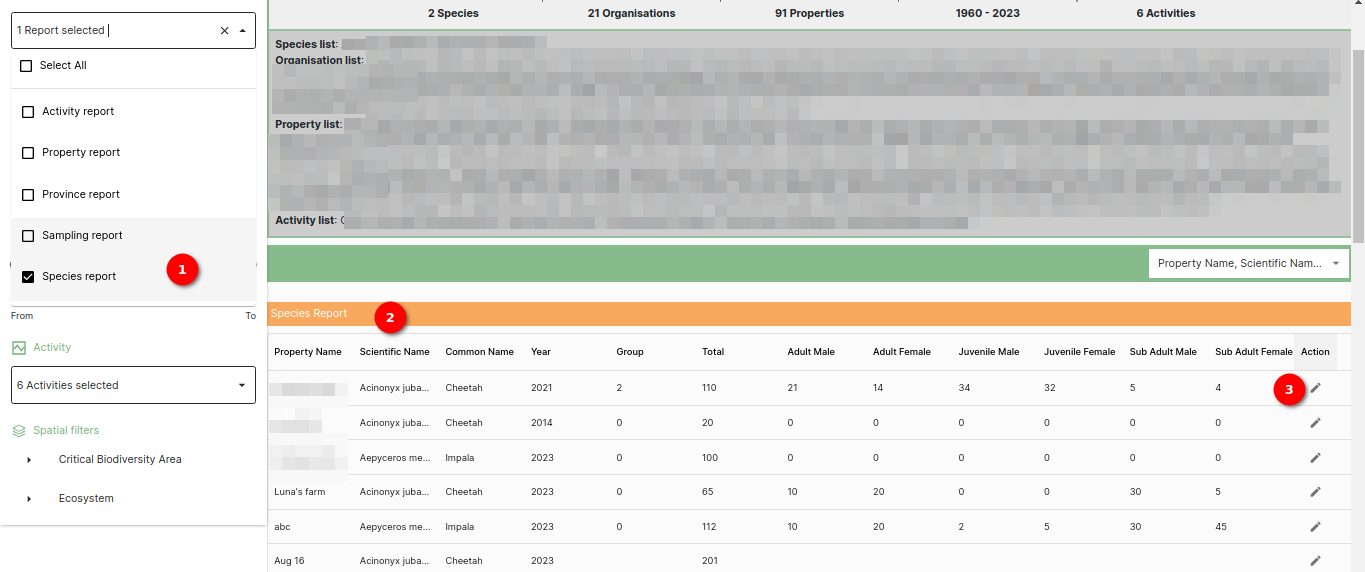
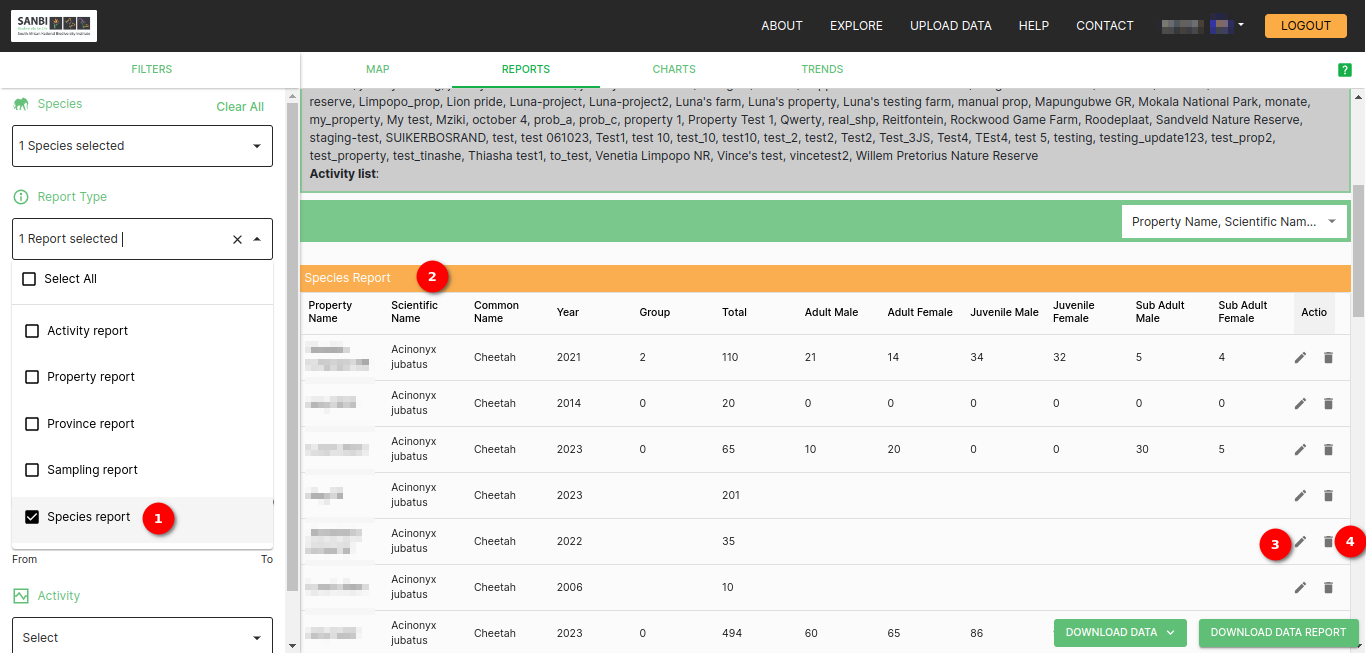
Add re upload section (#1997)
* Update species report's edit/delete species doc

* Add documentation for the update property and species data

* Update index file

* Update context_id

update context id

---------

diff --git a/docs/src/user/manual/data-upload/update-data.md b/docs/src/user/manual/data-upload/update-data.md
@@ -1,0 +1,96 @@
+---
+title: IDS SAWPS
+summary: The SANBI Wildlife Protection System is a platform to track the population levels of endangered wildlife.
+    - Jeremy Prior
+    - Ketan Bamniya
+date: 09-11-2023
+some_url: https://github.com/kartoza/sawps/
+copyright: Copyright 2023, SANBI
+contact: PROJECT_CONTACT
+license: This program is free software; you can redistribute it and/or modify it under the terms of the GNU Affero General Public License as published by the Free Software Foundation; either version 3 of the License, or (at your option) any later version.
+context_id: 86E2FetEjDbkA6t7ET8efs
+---
+
+# User Manual Updating Property/Species Data
+
+![upload data](./img/update-data-1.png)
+
+1. **Upload Data:** Click on the `Upload Data` option available in the navigation to navigate to the upload data page.
+
+2. **Search Property:** The user can use the search property dropdown to locate the property they want to edit. Alternatively, they can directly type the property name for quicker access. Click on the property name to go to the upload page, where the user can view or update property details.
+
+## Step 1 Tab
+
+![update data](./img/update-data-2.png)
+
+Click on the `Step 1` tab to update property details.
+
+The user can update the property name, open/close system, and property type here. After updating the desired fields, click on the `SAVE PROPERTY INFORMATION` button to save the changes.
+
+Property details before update.
+
+![update data](./img/update-data-3.png)
+
+Property details after update.
+
+![update data](./img/update-data-4.png)
+
+## Step 2 Tab
+
+![update data](./img/update-data-5.png)
+
+Click on the `Step 2` tab to update property boundaries. The highlighted boundary visible on the map represents the existing property boundary. To modify the boundary, users can utilise the `SELECT` and `DIGITISE` buttons.
+
+1. **Delete Icon:** If the user wants to delete the existing boundaries and add a new boundary they can delete the existing boundary parcel by clicking on the delete icon available with the parcel details or can keep it if do not want to delete the existing boundary.
+
+2. **SELECT:** Click the `SELECT` button to choose and update the property boundary by adding a new parcel from the map. After selecting, click on the `SAVE BOUNDARY` button to save the selected boundary.
+
+Property boundary while selecting new parcels for the property boundary update.
+
+![update data](./img/update-data-6.png)
+
+Property boundary after adding new parcels.
+
+![update data](./img/update-data-7.png)
+
+3. **DIGITISE:** Click the `DIGITISE` button to manually digitise and update the boundary on the map.
+
+    ![update data](./img/update-data-8.png)
+
+    1. **Polygon Tool Icon** Click on this icon to select the boundary manually on the map. The selected boundary will be visible on the map.
+
+    2. **Save Icon** After selecting, click on the `SAVE` icon at the top left corner of the map to save the digitise boundary. After saving the digitise boundary refresh the page the user will see the new digitise boundaries.
+
+        ![update data](./img/update-data-9.png)
+
+        1. **Blue Boundary:** The `Blue` boundary displays the manually digitised boundary.
+
+        2. **Red Boundary:** The `Red` boundary indicates the digitised boundary selected from specific parcels.
+
+        3. **Farm ID** The selected farm's `Farm ID` can be used to verify whether the user has chosen the correct farm portion.
+
+4. **CLEAR BOUNDARY:** Click on this button to clear all boundaries, then use `SELECT` or `DIGITISE` to add the property boundary.
+
+## Step 3 Tab
+
+Click on the Step 3 tab to update species details.
+
+![update data](./img/update-data-10.png)
+
+1. **Upload Data:** Use the upload data method to update existing species data. If the user does not have the template, download it by clicking on the `DOWNLOAD TEMPLATE` button. Fill in the data in the downloaded template, ensuring the property ID matches the property ID you want to update. Upon clicking the `UPLOAD DATA` button, the upload data popup window will appear, providing the user with easy-to-use tools for uploading the user's data.
+
+    ![update data](./img/update-data-11.png)
+
+    1. **Browse Button:** Click on the Browse button to select the file that the user wishes to upload. A user can choose a file from the user's local storage that is in either CSV or XLSX format. This file should contain the data the user wants to integrate into the system for further analysis.
+
+    2. **Upload File Button:** After selecting the file, click on the `UPLOAD FILE` button to begin the data upload process. The system will validate and process the data, making it available for the user to use. If there is any error in the uploaded file the system will generate the error file.
+
+        ![Error file](./img/update-data-12.png)
+
+        1. **ERROR FILE:** Click on this button to download the error file. In this file, the user will find the error message indicating the root cause of the issue, facilitating an easier resolution of the error. Open the downloaded error file and click on the first column `error message` to view the error message.
+
+            ![Error message](./img/update-data-13.png)
+
+    3. **Close Button:** If the user decides not to proceed with the upload or wishes to cancel the operation, the user can click on the `CLOSE` button. This will close the upload popup without initiating the data upload process.
+
+Ensure that the user saves their changes at each step to update property data accurately.

diff --git a/docs/src/user/manual/explore/reports.md b/docs/src/user/manual/explore/reports.md
@@ -180,7 +180,7 @@ The `Property Report` is a critical filter for reporting on various properties. 
 ![Province Report](./img/reports-9.png)
 
 1. **Province Report**: Select the `Province Report` option to generate a report specifically for provinces.
-> DISCLAIMER: 
+
 2. **Province Table**: The Province report table displays data related to the provinces, including population information.
 
      **Report Columns**
@@ -241,7 +241,23 @@ The Sampling Report is a crucial tool for documenting and reporting on sampling 
 
 2. **Species Table**: The species report table displays data of the species for the property.
 
+>Note: The users, based on their role, can edit or delete the species details. If the user is an organisational member, they can only edit or delete the records that they have submitted. However, if the user is an organisational manager,  they have the authority to edit or delete any data within that particular organisation.
+This clarification ensures that editing and deletion permissions align with the user's role within the organisation, promoting efficient and secure data management practices.
+Keep  in mind that the user can not update the `Scientific Name` and `Common Name` of the species. If the user want's to do that they need to delete the existing record or add new record.
+
 3. **Edit Icon**: Click on the `Edit` icon, to update the species record. When the user clicks on the edit icon the online form step 1 opens. Users can update the species details here.
+
+4. **Delete Icon:** Click on the `Delete` icon to remove the species record. Upon clicking the delete icon, a confirmation popup will appear, seeking confirmation for the deletion of the species record.
+
+    ![confirmation](./img/reports-15.png)
+
+    Within the popup, two buttons are available.
+
+    1. **Cancel:** Click the `Cancel` button to abort the deletion process.
+
+    2. **Delete:** Click the `Delete` button to confirm and proceed with the permanent deletion of the species record.
+
+    Exercise caution and ensure the accuracy of the users' decision before confirming the deletion. This two-step process is designed to prevent accidental deletions and provide users with an opportunity to reconsider their actions.
 
 ![Species Report](./img/reports-14.png)
 

diff --git a/docs/src/user/manual/data-upload/index.md b/docs/src/user/manual/data-upload/index.md
@@ -19,3 +19,4 @@ This section of the documentation describes the various elements of the upload d
 * **[A Panel Overview:](panel.md)** This section is an overview explanation of the upload data panel and functionality.
 * **[The Online Form:](online-form.md)** This page explains the online form section of the data upload.
 * **[Template Upload:](template-upload.md)** This documentation describes the template file for data upload.
+* **[Update Data:](update-data.md)** This documentation describes the how the user can update the property and the species data.
